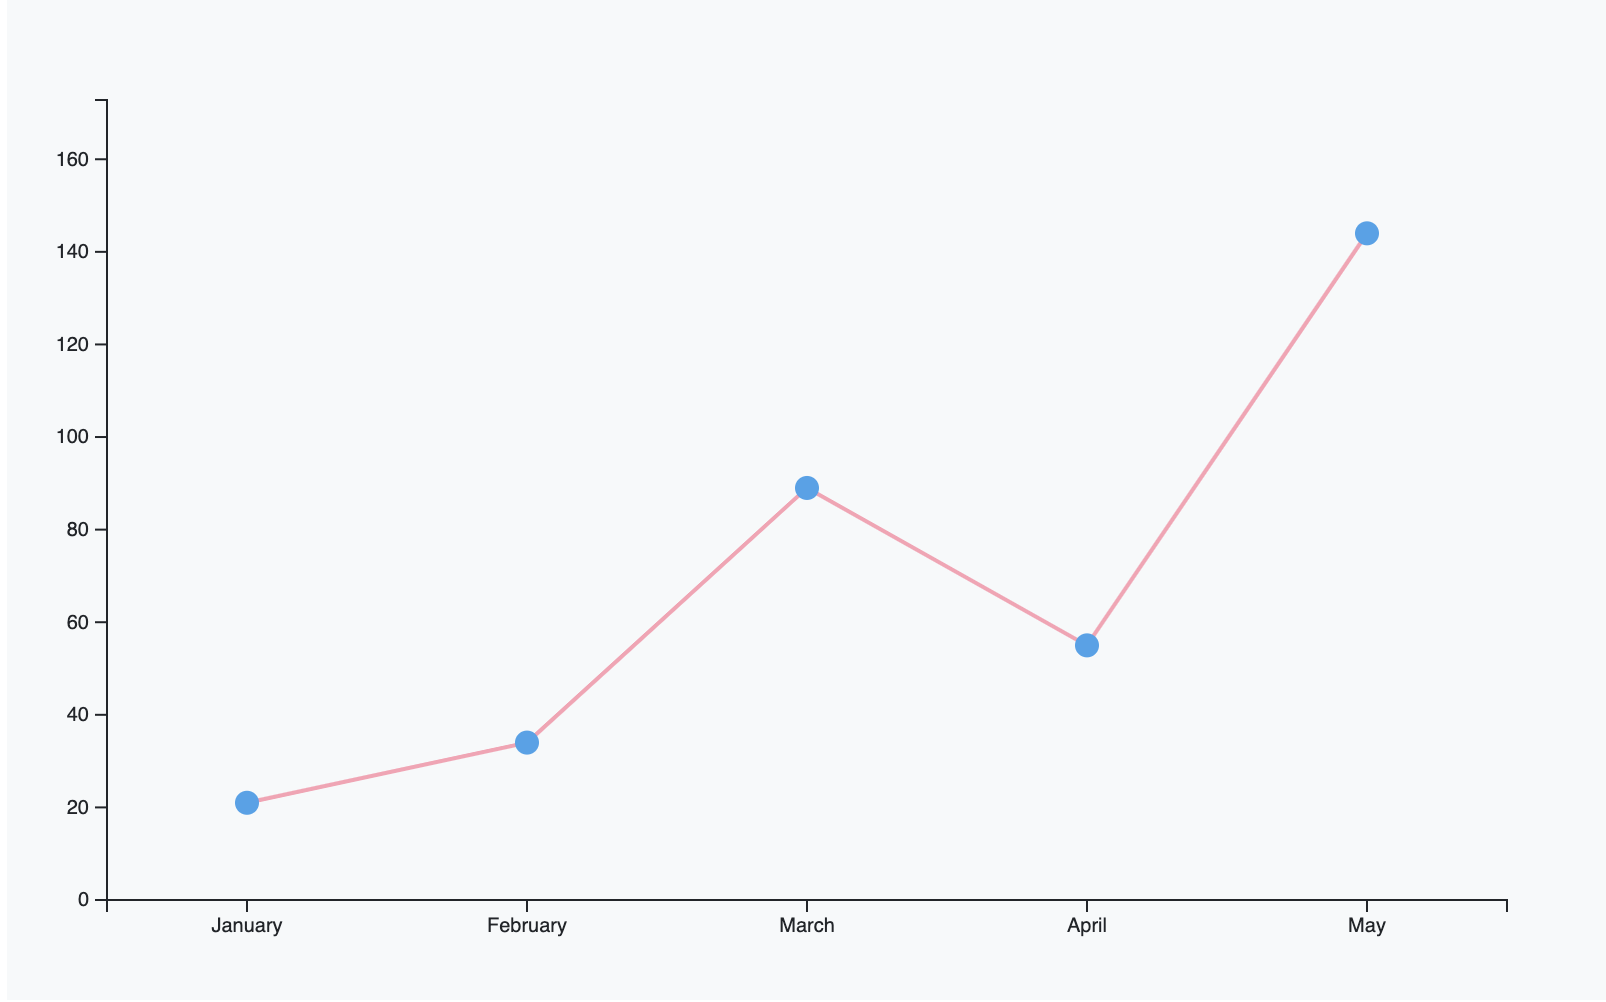
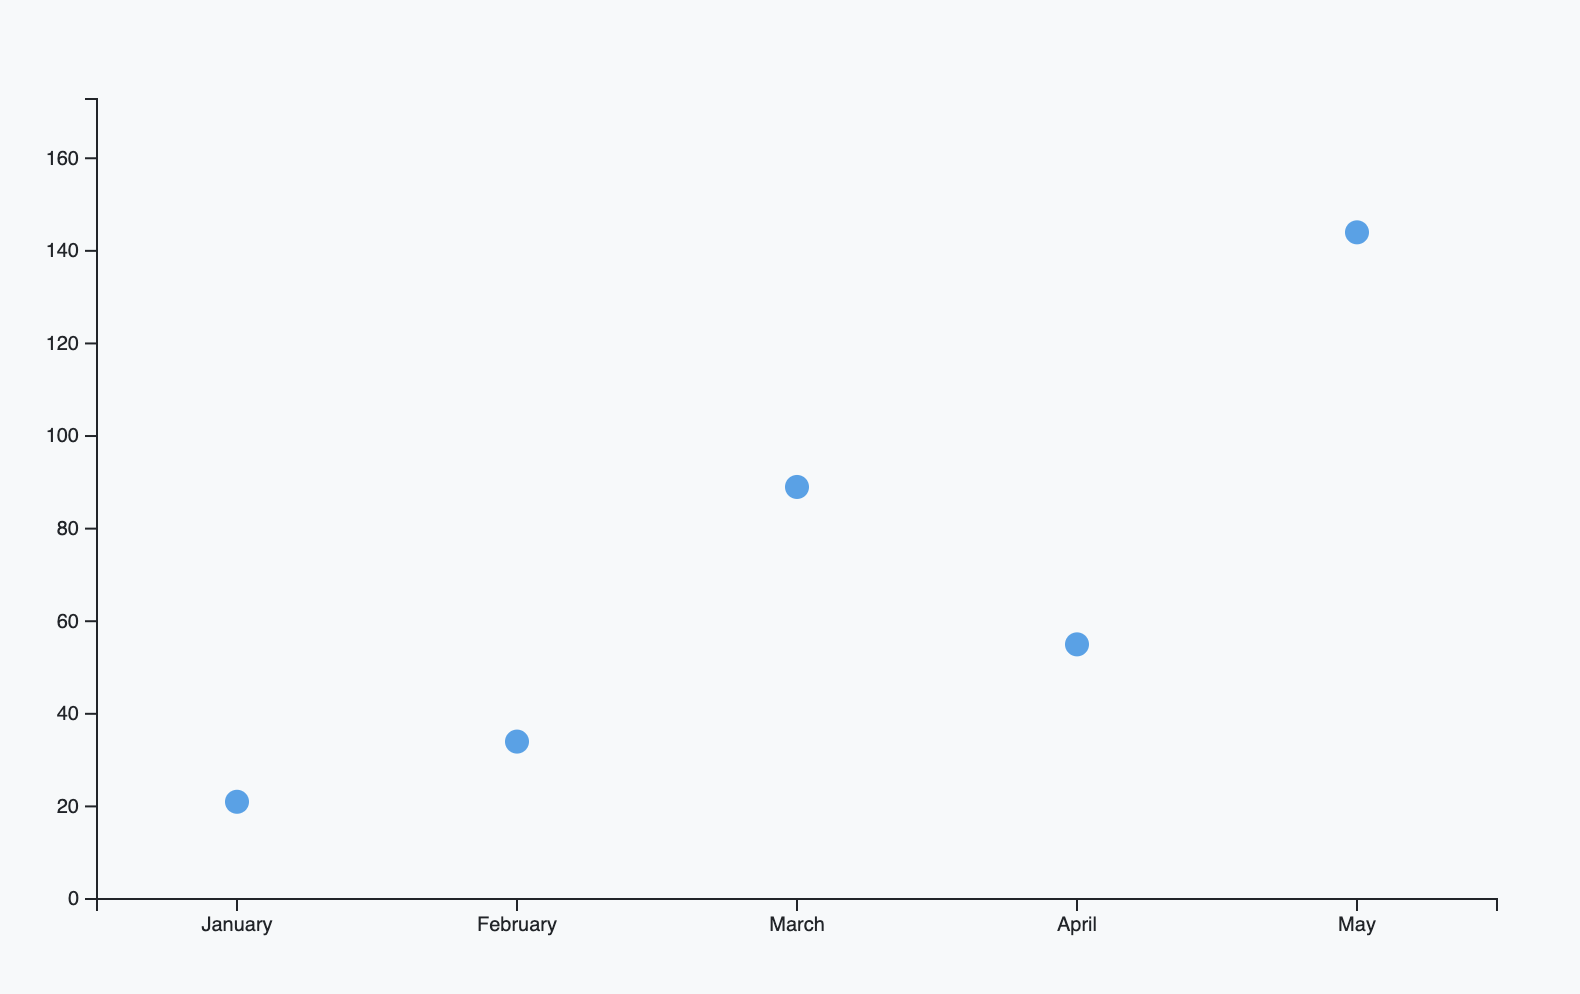
Develop Gauge Chart

diff --git a/tutorial/011/js/main.js b/tutorial/011/js/main.js
@@ -1,1 +1,167 @@
-https://observablehq.com/@d3/d3-line
+/*!
+ * d3_v7_100_chart_examples with D3.js v7.1.1
+ */
+
+/**
+ * Basic Settings
+ */
+const dataset = [21, 34, 89, 55, 144];
+
+const canvasWidth = 800;
+const canvasHeight = 500;
+
+const chartPadding = 50;
+const ciclePadding = 20;
+
+const svg = d3.select("#d3-chart-wrapper")
+  .append("svg")
+  .attr("width", canvasWidth)
+  .attr("height", canvasHeight)
+  .style("background", "#f7f9fa");
+
+/**
+ * Scale
+ */
+const dataRange = Array.from(dataset.keys());
+const xScale = d3.scaleBand()
+  .domain(dataRange)
+  .range([0, canvasWidth - chartPadding - chartPadding]);
+
+const yScale = d3.scaleLinear()
+  .domain([0, d3.max(dataset) * 1.2])
+  .range([canvasHeight - chartPadding, 0 + chartPadding]);
+
+const monthIndex = ["January", "February", "March", "April", "May"];
+const xScaleMonth = d3.scaleBand()
+  .domain(monthIndex)
+  .range([0, canvasWidth - chartPadding - chartPadding]);
+
+/**
+ * 演示用
+ */
+// svg.append('line')
+//   .attr('x1', 120)
+//   .attr('y1', 400)
+//   .attr('x2', 260)
+//   .attr('y2', 370)
+//   .attr('stroke', '#36a2eb')
+//   .attr('stroke-width', 2);
+/**
+ * 演示用
+ */
+// svg.append('path')
+//   .attr('d', 'M120,400 L260,370 L400,245')
+//   .style('fill', 'none')
+//   .style('stroke', '#1f77b4')
+//   .style('stroke-width', 2);
+
+var lineGenerator = d3.line();
+var points = [
+  [0, 80],
+  [100, 100],
+  [200, 30],
+  [300, 50],
+  [400, 40],
+  [500, 80]
+];
+var pathData = lineGenerator(points);
+
+console.log({pathData});
+/**
+ * https://observablehq.com/@d3/d3-line
+ * line generator
+ */
+const lineShape = d3.line()
+// const lineShape = d3.area()
+  .x(function(d, i) {
+    return xScale(i);
+  })
+  .y(function(d) {
+    return yScale(d);   // top of area
+  })
+  // .y0(yScale(0))    // bottom of area
+  // .curve(d3.curveMonotoneX);
+
+svg.append("g")
+  .append("path")
+  .datum(dataset)
+  .attr("transform", "translate(" + 120 + "," + 0 + ")")
+  .attr("d", lineShape)
+  // .style("fill", "#78c7e7")
+  .style("fill", "none")
+  .style("opacity", "0.6")
+  .style("stroke", "#ff6384")
+  .style("stroke-width", "2");
+
+/**
+ * Draw circle
+ */
+svg.append('g')
+  .selectAll("circle")
+  .data(dataset)
+  .enter()
+  .append("circle")
+  .attr("transform", "translate(" + (chartPadding * 2 + ciclePadding) + ", " + 0 + ")")
+  .attr("r", function(d, i) {
+    return 5;
+  })
+  .attr("cx", function(d, i) {
+    return xScale(i);
+  })
+  .attr("cy", function(d, i) {
+    return yScale(d);
+  })
+  // .attr("fill", "none")
+  .attr("fill", "#36a2eb")
+  .attr("stroke", "#36a2eb")
+  .style("stroke-width", 2)
+  // Mouse Events
+  .on('mouseover', mouseoverHandler)
+  .on('mouseout', mouseoutHandler);
+
+/**
+ * Mouseover
+ */
+function mouseoverHandler(event, datum) {
+  d3.select(this)
+    .transition()
+    .attr("fill", "#ff6384");
+
+  const hoverValue = d3.select(this).data()[0];
+  svg.append("text")
+    .attr("class", "hover-text")
+    .attr("x", event.layerX + 10)
+    .attr("y", event.layerY)
+    .text(datum)
+    .attr("fill", "#3c3c3c");
+}
+
+/**
+ * Mouseout
+ */
+function mouseoutHandler(event, datum) {
+  d3.selectAll(".hover-text").remove();
+
+  d3.select(this)
+    .transition()
+    .attr("fill", "none");
+}
+
+/**
+ * Axis
+ */
+const xAxis = d3.axisBottom()
+  .scale(xScaleMonth);
+
+svg.append("g")
+  .attr("class", "x-axis")
+  .attr("transform", "translate(" + chartPadding + ", " + (canvasHeight - chartPadding) + ")")
+  .call(xAxis);
+
+const yAxis = d3.axisLeft()
+  .scale(yScale);
+
+svg.append("g")
+  .attr("class", "y-axis")
+  .attr("transform", "translate(" + chartPadding + ", " + 0 + ")")
+  .call(yAxis);

diff --git a/tutorial/010/js/main.js b/tutorial/010/js/main.js
@@ -37,63 +37,6 @@ const xScaleMonth = d3.scaleBand()
   .range([0, canvasWidth - chartPadding - chartPadding]);
 
 /**
- * 演示用
- */
-// svg.append('line')
-//   .attr('x1', 120)
-//   .attr('y1', 400)
-//   .attr('x2', 260)
-//   .attr('y2', 370)
-//   .attr('stroke', '#36a2eb')
-//   .attr('stroke-width', 2);
-/**
- * 演示用
- */
-// svg.append('path')
-//   .attr('d', 'M120,400 L260,370 L400,245')
-//   .style('fill', 'none')
-//   .style('stroke', '#1f77b4')
-//   .style('stroke-width', 2);
-
-var lineGenerator = d3.line();
-var points = [
-  [0, 80],
-  [100, 100],
-  [200, 30],
-  [300, 50],
-  [400, 40],
-  [500, 80]
-];
-var pathData = lineGenerator(points);
-
-console.log({pathData});
-/**
- * https://observablehq.com/@d3/d3-line
- * line generator
- */
-const lineShape = d3.line()
-// const lineShape = d3.area()
-  .x(function(d, i) {
-    return xScale(i);
-  })
-  .y(function(d) {
-    return yScale(d);   // top of area
-  })
-  // .y0(yScale(0))    // bottom of area
-  // .curve(d3.curveMonotoneX);
-
-svg.append("g")
-  .append("path")
-  .datum(dataset)
-  .attr("transform", "translate(" + 120 + "," + 0 + ")")
-  .attr("d", lineShape)
-  // .style("fill", "#78c7e7")
-  .style("fill", "none")
-  .style("opacity", "0.6")
-  .style("stroke", "#ff6384")
-  .style("stroke-width", "2");
-
-/**
  * Draw circle
  */
 svg.append('g')

diff --git a/tutorial/016/index.html b/tutorial/016/index.html
@@ -21,7 +21,7 @@
       <div class="bg-light p-5 rounded mt-3">
         <h2>D3 Gauge Chart</h2>
         <p class="lead">This example is a quick exercise to a D3 Gauge Chart And Gradient Color Arc.</p>
-        <p class="lead">D3.js 仪表测量图 和 颜色渐变.</p>
+        <p class="lead">D3.js 仪表图 测量图 和 颜色渐变.</p>
       </div>
 
       <div id="d3-example" class="container" style="margin">

diff --git a/README.md b/README.md
@@ -11,12 +11,16 @@ The example is used D3.js v7.1.1.
 | 004  | 7 Basic Elements 3 | Path  | 路径 | <img src="thumbnail/004.png" width="200"></img>  |
 | 005  | Simple Bar  |   | 简单柱状图  | <img src="thumbnail/005.png" width="200"></img>  |
 | 006  | Bar Chart With Axis, Mean |  | 柱状图 坐标轴 比例尺 | <img src="thumbnail/006.png" width="200"></img>  |
-| 007  | Bar Chart With Mouse Event  |  柱状图 鼠标悬浮事件 |   | <img src="thumbnail/007.png" width="200"></img>  |
-| 008  | Bar Chart With Legend, Color Column  | 柱状图 图例 多色 均线  |   | <img src="thumbnail/008.png" width="200"></img>  |
-| 009  | Vertical Bar Chart  | 横向条形图  |  | <img src="thumbnail/009.png" width="200"></img>  |
-| 010  | Scatter Chart  | 散点图  |  | <img src="thumbnail/010.png" width="200"></img>  |
-| 011  | Line Chart  | 折线图  |  | <img src="thumbnail/011.png" width="200"></img>  |
-| 012  | Area Chart  | 面积图  |  | <img src="thumbnail/012.png" width="200"></img>  |
-| 013  | Pie Chart  | 饼图  |  | <img src="thumbnail/013.png" width="200"></img>  |
-| 014  | Doughnut Chart  | 环形图  |  | <img src="thumbnail/014.png" width="200"></img>  |
+| 007  | Bar Chart With Mouse Event  |   | 柱状图 鼠标悬浮事件 | <img src="thumbnail/007.png" width="200"></img>  |
+| 008  | Bar Chart With Legend, Color Column  |   | 柱状图 图例 多色 均线  | <img src="thumbnail/008.png" width="200"></img>  |
+| 009  | Vertical Bar Chart  |  | 横向条形图  | <img src="thumbnail/009.png" width="200"></img>  |
+| 010  | Scatter Chart  |  | 散点图  | <img src="thumbnail/010.png" width="200"></img>  |
+| 011  | Line Chart  |  | 折线图  | <img src="thumbnail/011.png" width="200"></img>  |
+| 012  | Area Chart  |  | 面积图  | <img src="thumbnail/012.png" width="200"></img>  |
+| 013  | Arc Shape  |  | 饼图  | <img src="thumbnail/013.png" width="200"></img>  |
+| 014  | Pie Chart  |  | 饼图  | <img src="thumbnail/014.png" width="200"></img>  |
+| 015  | Doughnut Chart |  | 环形图  | <img src="thumbnail/015.png" width="200"></img>  |
+| 016  | Gauge Chart |  | 仪表图 测量图  | <img src="thumbnail/016.png" width="200"></img>  |
+| 017  | Time Series Line |  | 时间序列图  | <img src="thumbnail/017.png" width="200"></img>  |
+| 086  | Word Cloud |  | 词云图  | <img src="thumbnail/014.png" width="200"></img>  |
 
